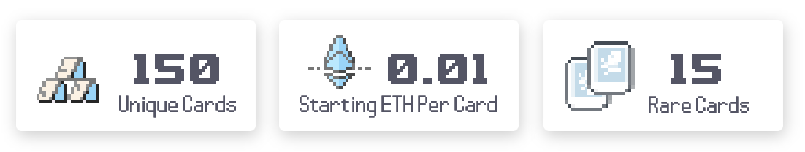
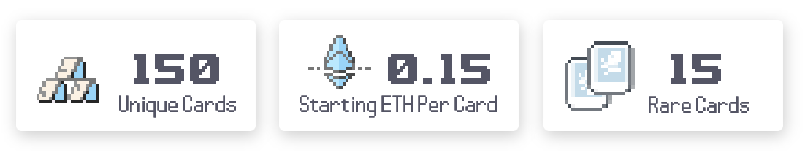
update

Changed region(s): [[0.528, 0.3421, 0.6211, 0.5526]]

diff --git a/index.html b/index.html
@@ -120,7 +120,7 @@
                 <h4 class="mbr-section-subtitle mbr-fonts-style mb-4 display-5"><strong>The Release Curve (drop)</strong></h4>
                 <p class="mbr-text mbr-fonts-style display-7">
                     The purchase price will increase over time following a curve so that more people can have a chance to get one for lower prices.<br>
-                    This way we can promote collecting, create hype, reward early supporters, trading and build a community. Fair prices starting from 0.01 ETH and most of them are under 0.2 ETH and Legendary at max. 1 ETH.<br></p>
+                    This way we can promote collecting, create hype, reward early supporters, trading and build a community. Prices starting from 0.15 ETH and most of them are under 0.2 ETH and Legendary max. 1 ETH.<br></p>
 
             </div>
         </div>
